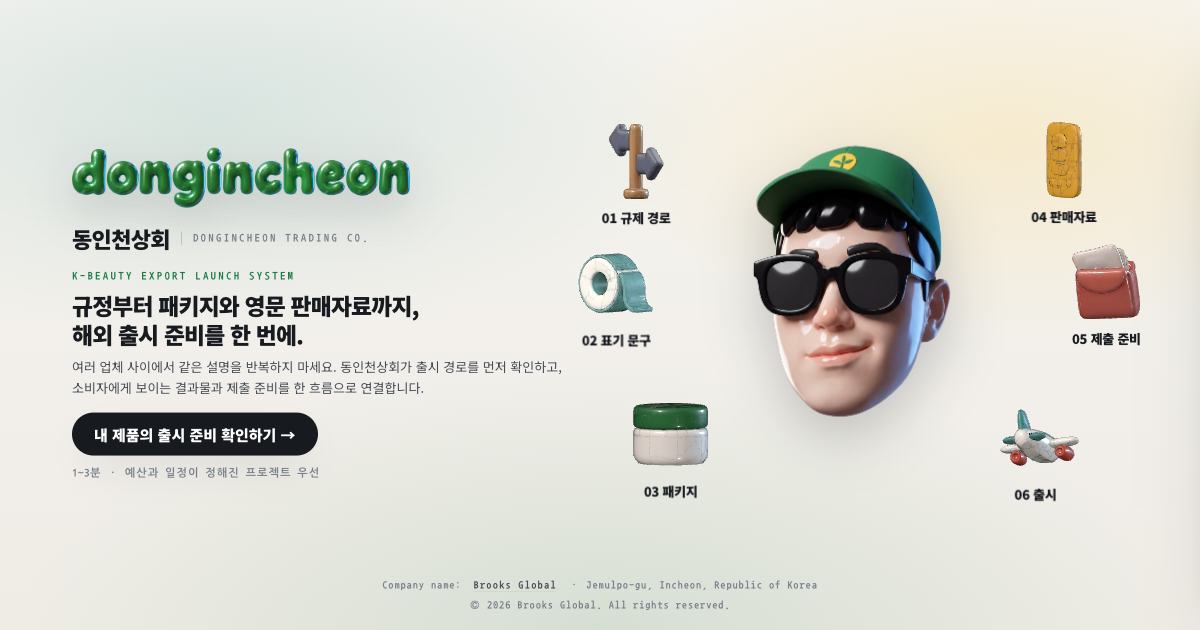
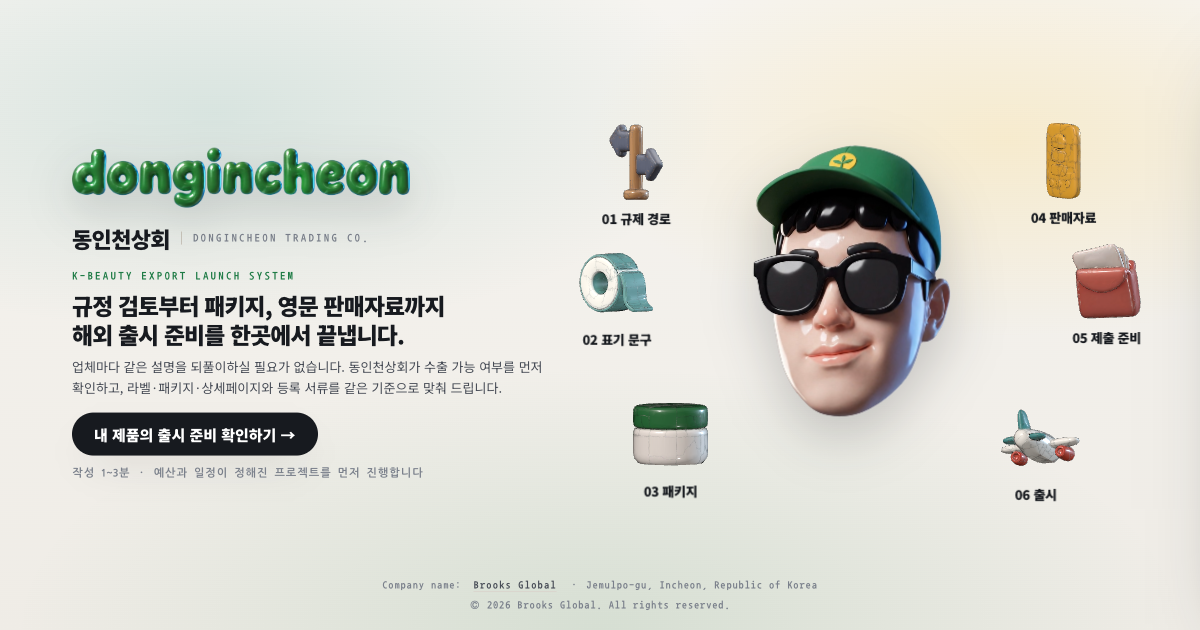
문안 교정: 번역투를 국내 업무 문체로(볼트 지침 korean-business-writing-style), 사업 내용과 어긋난 문장 정리
- 첫 화면 제목·설명, 페이지 제목·검색 설명·공유 문구를 서술어로 끝나는 문장으로
- 「미국에 내시면」「한 흐름으로 연결」「~하는 경험」「제품이 말할 수 있는」「판매언어」「작동하는 증거」「단절」 등 영어식 표현 교체
- Sprint 5단계 영문 제목을 한글로(출시 전 점검·규제 경로 확인·라벨·패키지 문안·판매자료·인수인계)
- 약어 풀어쓰기: INCI·CNF·NHP·NPN·DIN·PLA, 클레임 → 광고 문구
- 사실 정정: 「대행이 아니라 자문」 삭제(등록 대행을 함), 「EU CPNP 별도」 → 유럽 기준 문구 포함, 「MoCRA 시설 등록」 → 제품 등록
- 선택지·버튼의 해요체를 합니다체로, 중복된 캐나다 주의 문구 한 번으로
- og.png 를 바뀐 제목으로 다시 촬영

diff --git a/index.html b/index.html
@@ -3,12 +3,12 @@
 <head>
 <meta charset="utf-8">
 <meta name="viewport" content="width=device-width, initial-scale=1">
-<title>동인천상회 | 화장품 해외 출시 준비를 한 번에</title>
-<meta name="description" content="규제 검토부터 라벨·패키지와 영문 판매자료까지. Brooks Global의 동인천상회가 한국 화장품 브랜드의 해외 출시 준비를 하나의 실행 흐름으로 완성합니다.">
+<title>동인천상회 | 화장품 해외 출시 준비 대행</title>
+<meta name="description" content="동인천상회는 한국 화장품 브랜드의 해외 출시에 필요한 규제 검토, 라벨·패키지 디자인, 영문 상세페이지, 미국·캐나다 등록을 한곳에서 맡습니다. Brooks Global 의 서비스 브랜드입니다.">
 <link rel="canonical" href="https://www.brooksglobal.co.kr/">
 <meta property="og:site_name" content="동인천상회">
-<meta property="og:title" content="규정부터 판매자료까지, 해외 출시 준비를 한 번에">
-<meta property="og:description" content="Export-Ready Launch Sprint — 흩어진 규제, 라벨, 패키지와 영문 판매자료를 약 4주 동안 하나의 출시 흐름으로.">
+<meta property="og:title" content="화장품 해외 출시 준비, 동인천상회가 한곳에서 끝냅니다">
+<meta property="og:description" content="Export-Ready Launch Sprint — 약 4주 동안 규제 검토, 라벨·패키지 디자인, 영문 판매자료, 미국·캐나다 등록을 한 번에 진행합니다.">
 <meta property="og:type" content="website">
 <meta property="og:locale" content="ko_KR">
 <meta property="og:url" content="https://www.brooksglobal.co.kr/">
@@ -333,10 +333,10 @@ button{font:inherit;color:inherit;border:none;background:none;cursor:pointer}
     <span class="sub"><b>동인천상회</b><s></s><em>DONGINCHEON TRADING CO.</em></span>
     <div class="hero-copy">
       <small class="kicker">K-BEAUTY EXPORT LAUNCH SYSTEM</small>
-      <h1>규정부터 패키지와 영문 판매자료까지, 해외 출시 준비를 한 번에.</h1>
-      <p>여러 업체 사이에서 같은 설명을 반복하지 마세요. 동인천상회가 출시 경로를 먼저 확인하고, 소비자에게 보이는 결과물과 제출 준비를 한 흐름으로 연결합니다.</p>
+      <h1>규정 검토부터 패키지, 영문 판매자료까지 해외 출시 준비를 한곳에서 끝냅니다.</h1>
+      <p>업체마다 같은 설명을 되풀이하실 필요가 없습니다. 동인천상회가 수출 가능 여부를 먼저 확인하고, 라벨·패키지·상세페이지와 등록 서류를 같은 기준으로 맞춰 드립니다.</p>
       <button class="hero-cta" id="heroCta" data-open="fit">내 제품의 출시 준비 확인하기 →</button>
-      <small class="micro">1~3분 · 예산과 일정이 정해진 프로젝트 우선</small>
+      <small class="micro">작성 1~3분 · 예산과 일정이 정해진 프로젝트를 먼저 진행합니다</small>
     </div>
   </div>
   <div class="avatar" id="avatar" role="button" tabindex="0" aria-label="동인천김씨">
@@ -380,32 +380,32 @@ button{font:inherit;color:inherit;border:none;background:none;cursor:pointer}
 var SERVICES=[
  {id:'ra',art:'ra',color:'#4A5568',kicker:'SPRINT 01 · REGULATORY',tag:'01 규제 경로',short:'01 규제',
   title:'갈 수 있는 길부터 확인합니다',
-  lede:'디자인을 시작하기 전에 이 제품이 그 나라에 어떤 경로로 들어갈 수 있는지부터 봅니다. 캐나다는 OUAH 포털과 현지 전문가를 통해 경로를 확인합니다.',
+  lede:'디자인을 시작하기 전에 제품이 수출할 나라에 어떤 경로로 들어갈 수 있는지부터 확인합니다. 캐나다는 OUAH 포털로 먼저 확인하고, 현지 전문가가 최종 검토합니다.',
   role:['갈 수 있는 경로와 필요한 자료, 외부 절차를 정리합니다',
         '금지·제한 성분과 쓰면 안 되는 문구를 먼저 걸러 냅니다',
         '여기서 정한 경로가 라벨·패키지·판매자료의 기준이 됩니다'],
-  solo:'규정 검토만 따로 맡기실 수도 있습니다. 대행이 아니라 자문과 검토로 맡습니다.',
-  items:['MoCRA 시설 등록과 제품 리스팅에 무엇이 필요한지 정리해 드립니다',
+  solo:'규정 검토나 등록만 따로 맡기실 수도 있습니다.',
+  items:['미국 화장품 규정(MoCRA)에 따라 제품 등록에 무엇이 필요한지 정리해 드립니다',
          '성분이 쓸 수 있는 것인지, 한도를 넘지 않는지 봅니다',
          '캐나다는 화장품 신고(Cosmetic Notification) 요건을 확인해 드립니다',
          '라벨과 상세페이지가 기준에 맞는지 미리 보고 고칠 방향을 드립니다',
-         '통관에서 막혔다면 사유를 뜯어보고 다시 낼 방향을 잡아 드립니다'],
+         '통관에서 막혔다면 사유를 분석해 다시 신청할 방향을 잡아 드립니다'],
   canada:true,
-  cred:'아마존코리아와 월마트 아시아퍼시픽 마켓플레이스 파트에서 셀러 대상 웨비나를 진행했습니다.',   /* OUAH 직함 문장은 D4(관계 문구 승인) 뒤 */
-  meta:'대리인을 세워야 하는 절차는 범위와 책임을 먼저 나눈 다음 진행 여부를 정합니다. 대행이 아니라 자문과 검토로 맡습니다.'},
+  cred:'아마존코리아와 월마트 아시아퍼시픽 마켓플레이스의 셀러 대상 웨비나를 진행했습니다.',   /* OUAH 직함 문장은 D4(관계 문구 승인) 뒤 */
+  meta:'미국 FDA 제품 등록과 Health Canada 신고·허가는 맡아서 진행합니다. 미국 대리인이 필요한 시설 등록은 맡지 않으며, 필요하시면 따로 견적을 드립니다.'},
  {id:'label',art:'label',color:'#2A8C86',kicker:'SPRINT 02 · LABEL',tag:'02 표기 문구',short:'02 표기',
   title:'번역이 아니라 시장별로 다시 씁니다',
   lede:'클레임과 필수 문구를 나라 기준에 맞게 정리합니다. 한 나라 문구를 옮겨 적지 않고, 그 나라 규정에 맞춰 새로 씁니다.',
   role:['01 단계에서 정한 경로에 맞춰 필수 표기 항목을 정리합니다',
         '영문·불문 등 시장별 문안을 쓰고, 기능성이나 의약품 주장으로 읽히는 표현을 걸러 냅니다',
-        '전성분을 INCI 명으로 정리합니다'],
+        '전성분을 국제 성분명(INCI)으로 정리합니다'],
   solo:'라벨 표기 문구만 따로 맡기실 수도 있습니다.',
   items:['국문과 영문 문구를 쓰고, 한 면에 같이 넣을지 나눌지 정해 드립니다',
-         '전성분을 INCI 명으로 정리합니다',
+         '전성분을 국제 성분명(INCI)으로 정리합니다',
          '건강기능식품은 Supplement Facts, 일반식품은 Nutrition Facts, OTC는 Drug Facts로 구성합니다',
          '기능성으로 읽히는 표현, 의약품 주장이 되는 표현을 걸러 냅니다',
-         '수출만 하실지 국내에도 같이 푸실지에 따라 표기를 나눠 드립니다'],
-  meta:'국내에 유통하는 화장품은 화장품법 제10조에 따라 1차·2차 포장에 한글 표기가 있어야 합니다. 국내에도 같이 푸실 제품이면 처음부터 병기로 잡는 편이 낫습니다. EU CPNP 문구는 기준이 달라 별도 건으로 봅니다.'},
+         '수출만 하실지 국내에서도 판매하실지에 따라 표기를 나눠 드립니다'],
+  meta:'국내에 유통하는 화장품은 화장품법 제10조에 따라 1차·2차 포장에 한글 표기가 있어야 합니다. 국내에서도 판매하실 제품이라면 처음부터 한글과 영문을 함께 표기하는 편이 낫습니다. 유럽 기준 라벨 문구도 함께 잡아 드리며, 유럽 화장품 등록(CPNP) 절차는 따로 상담합니다.'},
  {id:'pkg',art:'pkg',color:'#1E7B45',kicker:'SPRINT 03 · PACKAGE',tag:'03 패키지',short:'03 패키지',
   title:'만들기 전에 먼저 확인합니다',
   lede:'규정과 필수 표기를 먼저 잡아 두고 디자인을 시작합니다. 다 그려 놓고 문구 때문에 다시 뜯어고치는 일을 줄입니다.',
@@ -422,11 +422,11 @@ var SERVICES=[
   cred:'K-POP 아이돌 굿즈 브랜드 블링원의 디자인 파트너입니다.',
   meta:'제품 촬영과 모델·스튜디오 비용, 인쇄와 감리, 부자재, 별도 폰트 라이선스는 용역비에 들어가지 않습니다. 인쇄를 넘긴 뒤에 되돌아오는 일을 줄이는 것이 이 작업의 목적입니다.'},
  {id:'detail',art:'ax',color:'#E0A400',kicker:'SPRINT 04 · SALES PAGE',tag:'04 판매자료',short:'04 판매',
-  title:'패키지와 판매언어를 맞춥니다',
-  lede:'제품이 말할 수 있는 범위 안에서 구매 정보를 설계합니다. 패키지와 같은 논리, 같은 표현으로 판매 화면을 만듭니다.',
+  title:'패키지와 판매 문구를 맞춥니다',
+  lede:'광고할 수 있는 표현 범위 안에서 상세페이지를 기획합니다. 패키지와 같은 표현으로 판매 화면을 만듭니다.',
   role:['패키지·라벨에서 정한 표현 범위 안에서 판매 문구를 씁니다',
         '영문 상세페이지 핵심 구조 또는 완성본을 만듭니다',
-        '바이어와 고객이 확인할 브랜드 웹사이트가 필요하면 같은 흐름으로 붙입니다'],
+        '바이어와 고객이 볼 브랜드 웹사이트가 필요하면 같은 기준으로 함께 만듭니다'],
   solo:'상세페이지나 브랜드 웹사이트만 따로 맡기실 수도 있습니다.',
   items:['영문 상세페이지를 가로 860px로 만들고 2배수 파일을 같이 드립니다',
          '자사몰과 마켓플레이스에 함께 쓸 대표 페이지 한 벌을 만듭니다',
@@ -440,8 +440,8 @@ var SERVICES=[
                 '검색에 잡히도록 제목과 설명, 공유했을 때 뜨는 카드 이미지, sitemap을 넣고 네이버 서치어드바이저와 구글 서치콘솔에 등록해 드립니다',
                 '문의 폼을 붙이고 받으실 메일 주소로 연결합니다',
                 '소스 전체와 배포된 사이트, 운영 안내서를 함께 드립니다',
-                '문을 연 뒤 30일 동안 하자는 무상으로 고칩니다'],
-         meta:'쇼핑몰, 회원가입, 예약, 게시판, 관리자 화면은 기본 범위에 없습니다. 필요하시면 따로 견적을 드립니다. 언어를 늘리는 것은 한 언어 단위로 잡습니다.'}],
+                '사이트를 공개한 뒤 30일 동안 하자는 무상으로 고칩니다'],
+         meta:'쇼핑몰, 회원가입, 예약, 게시판, 관리자 화면은 기본 범위에 없습니다. 필요하시면 따로 견적을 드립니다. 언어를 추가할 때는 한 언어씩 견적을 드립니다.'}],
   cred:'지금 보고 계신 이 사이트도 같은 방식으로 직접 만들었습니다.',
   meta:'860px는 네이버 스마트스토어와 카페24가 쓰는 국내 표준 폭입니다. 채널마다 규격을 따로 만들지는 않습니다.'},
  {id:'sub',art:'sub',color:'#D3372B',kicker:'SPRINT 05 · SUBMISSION',tag:'05 제출 준비',short:'05 제출',
@@ -452,11 +452,11 @@ var SERVICES=[
         '지금 어디까지 왔고 다음에 누가 무엇을 정해야 하는지 한눈에 보이게 합니다'],
   solo:'사무 반복 업무 자동화만 따로 맡기실 수도 있습니다.',
   items:['진단 2주 — 지금 쓰는 파일을 그대로 받습니다. 새로 써 달라고 하지 않습니다. 반복 업무를 규칙 · AI · 연동 · 사람 넷으로 나누고, 그대로 두는 게 나은 일도 같이 적어 드립니다',
-         '메신저 봇 — 파일을 올리면 변환본이 답글로 돌아옵니다. 새 프로그램을 깔지 않고 이미 쓰는 슬랙에 붙입니다. 송장 변환, 주문 취합, 등록 양식 생성, 일일 보고',
+         '메신저 봇 — 파일을 올리면 변환본이 답글로 돌아옵니다. 새 프로그램을 깔지 않고 이미 쓰는 슬랙에 붙입니다. 송장 변환, 주문 취합, 등록 양식 생성, 일일 보고에 씁니다',
          '회의록 자동화 — 녹음하면 전사 · 요약 · 할 일이 정리되어 메신저로 옵니다',
          '정기 수집 · 알림 — 매일 정해진 시간에 공고와 데이터를 모아 판정하고 보냅니다. PC를 꺼도 돕니다',
          '규제 검토 자동화 — 화장품 전성분과 문안을 규정표에 대조해 검토 초안을 만듭니다. 미국 · 캐나다 규정 자문과 붙여서 씁니다',
-         'SNS 운영 자동화 — 인스타그램 성과 지표 연동, 카드 이미지 자동 생성'],
+         'SNS 운영 자동화 — 인스타그램 성과 지표를 연동하고 카드 이미지를 자동으로 만듭니다'],
   rules:['제거 → 표준화 → 연동 → 자동화 → AI. AI를 먼저 붙이지 않습니다',
          '규칙으로 되는 일은 AI로 하지 않습니다. 99번 맞고 1번 틀리면 그 1번을 사람이 못 잡습니다',
          '병행 운영 뒤에 전환합니다. 전과 후를 실측해 숫자로 보여 드립니다',
@@ -739,36 +739,36 @@ function go(target,label,ghost){ return '<button type="button" class="pgo'+(ghos
 /* 캐나다 카드 — 브리프 9.3. sprint · proof · 규제 모듈에서 같이 쓴다 */
 function canadaCard(){
   return '<div class="pcard"><small>WORKING PROOF · CANADA</small><h5>전성분표 한 장에서 등록 준비까지</h5>'+
-    '<p>캐나다 출시만 먼저 확인하고 싶으시면, 전성분표와 제품 질문으로 Health Canada 예상 경로와 견적을 먼저 볼 수 있습니다.</p>'+
+    '<p>캐나다 수출 가능 여부만 먼저 알고 싶으시면, 전성분표를 올리고 몇 가지 질문에 답해 Health Canada 등록 경로와 견적부터 받아 보실 수 있습니다.</p>'+
     go('canada','캐나다 출시라면 — 경로부터 보기 →',true)+'</div>';
 }
 var PAGES={
   /* ---- 1-4 리뉴얼 패널 (설계 3.3~3.9). 가격 숫자는 넣지 않는다 — D1·D2·D3·D7·D9 결정 뒤 채움 ---- */
   sprint:{kicker:'ONE FLAGSHIP OFFER',title:'Export-Ready Launch Sprint',
-    lede:'해외 출시를 앞둔 화장품 브랜드를 위한 약 4주의 집중 프로젝트입니다. 규정 검토와 디자인을 따로 발주하면서 생기는 누락, 반복 설명과 재작업을 줄입니다.',
+    lede:'해외 출시를 앞둔 화장품 브랜드와 약 4주 동안 집중해서 진행합니다. 규정 검토와 디자인을 따로 발주하면 생기는 누락, 반복 설명, 재작업을 줄입니다.',
     html:function(){ return ''+
       '<h4 class="psec">1) 이런 문제를 풉니다</h4>'+
-      '<p class="pquote">여러 업체 사이에서 같은 설명을 반복하지 않고, 규정 때문에 완성된 디자인을 다시 뜯어고치지 않으며, 지금 무엇이 부족하고 다음에 누가 결정해야 하는지 한 화면에서 아는 경험.</p>'+
-      '<h4 class="psec">2) 4주 뒤에 손에 쥐는 것</h4>'+
-      '<p>기술을 많이 쓰는 것이 목적이 아닙니다. 출시 전에 꼭 맞아야 하는 것들을 같은 순서와 같은 정보로 연결하는 것이 목적입니다.</p>'+
-      ul(['출시 준비 진단서','자료 누락 및 위험요소 목록','시장별 표기 문구 또는 검토 의견','패키지·라벨 수정안','영문 상세페이지 핵심 구조 또는 완성본','제출·제작·출시 체크리스트','필요하면 캐나다 등록 포털 연계']) +
+      '<p class="pquote">업체마다 같은 설명을 되풀이하지 않아도 되고, 규정 때문에 완성된 디자인을 다시 고치지 않아도 됩니다. 지금 무엇이 부족하고 다음에 누가 결정해야 하는지도 한눈에 보입니다.</p>'+
+      '<h4 class="psec">2) 4주 뒤에 받으시는 것</h4>'+
+      '<p>기술을 많이 쓰는 것이 목적이 아닙니다. 출시 전에 맞춰야 할 규정, 라벨, 패키지, 판매자료를 같은 기준으로 맞추는 것이 목적입니다.</p>'+
+      ul(['출시 준비 진단서','자료 누락 및 위험요소 목록','시장별 표기 문구 또는 검토 의견','패키지·라벨 수정안','영문 상세페이지 핵심 구조 또는 완성본','제출·제작·출시 체크리스트','캐나다 등록 포털 연계(필요한 경우)']) +
       '<h4 class="psec">3) 들어가는 것과 빠지는 것</h4>'+
-      steps([['Launch Preflight','제품, 국가, 성분, 클레임, 지금 아트워크와 일정을 점검합니다.'],
-             ['Regulatory Route','갈 수 있는 경로, 금지·제한 성분과 문구, 필요한 자료와 외부 절차를 정리합니다.'],
-             ['Label & Package Readiness','필수 표기와 영문·불문 등 시장별 문안을 잡고, 고칠 곳을 표시하거나 적용 파일을 만듭니다.'],
-             ['Sales Surface','패키지와 같은 논리로 이어지는 영문 상세페이지 또는 핵심 판매자료를 만듭니다.'],
-             ['Launch Handoff','최종 파일, 제출·제작 체크리스트, 다음 담당자와 일정을 넘깁니다.']])+
-      '<p class="pmeta">기본 범위에 들어가지 않는 것: 정부 수수료와 시험성적서 발급, 실험실 시험 · 인쇄·용기·단상자 생산비 · 제품 촬영, 영상, 모델, 번역 감수 등 외부 실비 · 법률의견서나 승인 보장 · 정한 횟수를 넘는 수정과 새 SKU</p>'+
+      steps([['출시 전 점검','제품, 국가, 성분, 광고 문구, 지금 아트워크와 일정을 점검합니다.'],
+             ['규제 경로 확인','등록 경로, 금지·제한 성분과 문구, 필요한 자료와 외부 절차를 정리합니다.'],
+             ['라벨·패키지 문안','필수 표기와 영문·불문 등 나라별 문안을 잡고, 고칠 곳을 표시하거나 적용 파일을 만듭니다.'],
+             ['판매자료','패키지와 같은 표현을 쓰는 영문 상세페이지나 판매자료를 만듭니다.'],
+             ['인수인계','최종 파일, 제출·제작 체크리스트, 다음 담당자와 일정을 넘겨 드립니다.']])+
+      '<p class="pmeta">정부 수수료, 시험성적서 발급과 실험실 시험, 인쇄·용기·단상자 생산비, 제품 촬영·영상·모델·번역 감수 같은 외부 실비, 법률의견서와 승인 보장, 정한 횟수를 넘는 수정과 새 SKU 는 기본 범위에 들어가지 않습니다.</p>'+
       '<h4 class="psec">4) 4주는 이렇게 갑니다</h4>'+
       '<dl class="facts">'+
       '<div class="fact"><dt>착수 전</dt><dd>유료 진단, 범위·가격 확정, 착수금, 자료 수령 — 고객이 국가·SKU·예산·승인권자를 정합니다</dd></div>'+
-      '<div class="fact"><dt>1주차</dt><dd>규제 경로, 자료 누락, 클레임 검토 — 진행 경로를 승인합니다</dd></div>'+
+      '<div class="fact"><dt>1주차</dt><dd>규제 경로, 자료 누락, 광고 문구 검토 — 진행 경로를 승인합니다</dd></div>'+
       '<div class="fact"><dt>2주차</dt><dd>라벨·패키지 정보구조와 문안 — 문안과 구조를 승인합니다</dd></div>'+
       '<div class="fact"><dt>3주차</dt><dd>디자인과 판매자료 제작 — 1차 시안을 승인합니다</dd></div>'+
-      '<div class="fact"><dt>4주차</dt><dd>수정, 검수, 제출·제작 체크리스트 — 최종 승인과 잔금</dd></div></dl>'+
+      '<div class="fact"><dt>4주차</dt><dd>수정, 검수, 제출·제작 체크리스트 — 최종 승인 뒤 잔금을 정산합니다</dd></div></dl>'+
       '<h4 class="psec">5) 이런 팀에 맞습니다</h4>'+
       ul(['첫 캐나다·미국 출시를 준비하는 한국 화장품 브랜드와 제조사','해외 진출 담당자는 있지만 사내 규제·글로벌 디자인 인력이 넉넉하지 않은 팀','패키지·전성분표·상세페이지는 있는데 나라마다 무엇을 바꿔야 하는지 모르는 팀','규제 대행사, 디자이너, 개발사 사이에서 자료와 책임이 흩어진 팀','1~6개월 안에 수출 일정이 있고, 예산 범위와 승인권자가 있는 팀'])+
-      '<p class="pmeta">이런 경우는 뒤로 미룹니다: 나라·제품·일정이 아직 정해지지 않은 아이디어 단계 · 무료 시안이나 무료 규제 판정을 원하시는 경우 · 승인권자 없이 정보만 모으시는 경우 · 예산과 구매 기준을 밝히기 어려운 경우 · 법적 승인이나 판매 성공 보장이 필요한 경우</p>'+
+      '<p class="pmeta">나라·제품·일정이 아직 정해지지 않았거나, 무료 시안이나 무료 규제 판정을 원하시거나, 승인권자 없이 정보만 모으시는 경우는 뒤로 미룹니다. 예산과 구매 기준을 밝히기 어렵거나 법적 승인·판매 성공 보장이 필요한 경우도 같습니다.</p>'+
       /* 2026-10-05 가격 확정(D1·D2, 부가세 별도). 바꿀 때는 볼트 log 의 결정 기록도 같이 */
       '<h4 class="psec">6) 가격</h4>'+
       '<dl class="facts">'+
@@ -780,7 +780,7 @@ var PAGES={
       '<div class="fact"><dt>NHP</dt><dd>Health Canada 천연건강제품 등록 SKU당 250만 원</dd></div></dl>'+
       ul(['등록에는 라벨 문구 검토 보고서가 들어갑니다',
           '디자인과 문구가 같고 용량만 다른 SKU 는 50% 할인합니다',
-          '예를 들어 일반 화장품 1 SKU 를 미국에 내시면 디자인 300만 원과 FDA 등록 20만 원, 모두 320만 원입니다',
+          '예를 들어 일반 화장품 1 SKU 를 미국에 수출하신다면 디자인 300만 원과 FDA 등록 20만 원을 더해 320만 원입니다',
           '월 유지관리는 Sprint 를 마친 뒤에만 제안합니다'])+
       '<p class="pmeta">모든 가격은 부가세 별도입니다. 정부 수수료, 시험성적서, 인쇄·생산비는 들어가지 않습니다. FDA 제품 등록은 제조 시설이 FDA 에 등록되어 있는 경우를 기준으로 하며, 시설 등록과 미국 대리인은 맡지 않습니다. 필요하시면 따로 견적을 드립니다.</p>'+
       canadaCard()+
@@ -795,7 +795,7 @@ var PAGES={
         ['4주 Sprint','주마다 승인할 것이 하나씩 있습니다. 경로, 문안과 구조, 1차 시안, 최종 승인 순서입니다.'],
         ['월 유지관리','Sprint 를 마친 뒤에만 제안합니다. 규제·라벨 자문, SKU·아트워크 변경 검토, 웹·상세페이지 업데이트를 맡습니다.']])+   /* 범위·시작 조건 D9 */
       '<p class="pmeta">맞춤 제안서는 예산, 최종 결정권자, 희망일, 구매하지 않을 조건이 확인된 프로젝트에만 씁니다. 아직 정해지지 않았다면 가능한 범위와 결정 예정일을 받습니다. 맞지 않으면 다른 길을 안내해 드리고, 제안서 전에 필요한 맞춤 분석은 유료 진단으로 합니다.</p>'+
-      go('about','동인천상회는 누구인가',true)+
+      go('about','동인천상회 소개 보기',true)+
       go('fit','우리 제품도 맞는지 확인하기 →'); }},
   fitform:{kicker:'CHECK LAUNCH FIT',title:'프로젝트 적합성 확인',
     lede:'맞춤 제안서는 예산, 최종 결정권자, 희망일과 구매하지 않을 조건이 확인된 프로젝트에만 작성합니다. 아직 정해지지 않았다면 가능한 범위와 결정 예정일을 적어 주세요.',
@@ -819,60 +819,59 @@ var PAGES={
         fld('q_how','승인 방식','<input id="q_how" type="text" placeholder="예: 대표 결재 후 진행">','',true)+
         fld('q_who_when','결정권자가 정해질 예정일','<input id="q_who_when" type="text" placeholder="예: 이번 분기 안">','',true)+
         '<div class="fld"><label for="q_date">'+req('6) 희망 출시·납품 시기')+'</label><input id="q_date" type="month">'+
-          '<div class="checks"><label><input type="checkbox" id="q_date_un">아직 정하지 못했어요</label></div></div>'+
+          '<div class="checks"><label><input type="checkbox" id="q_date_un">아직 정하지 못했습니다</label></div></div>'+
         fld('q_date_when','언제쯤 정해질지','<input id="q_date_when" type="text" placeholder="예: 시험성적서 나온 뒤">','',true)+
         fld('q_nobuy',req('7) 어떤 조건이면 진행하지 않으시나요'),'<textarea id="q_nobuy" rows="3" placeholder="예: 예산을 넘거나, 출시일을 못 맞추면 진행하지 않습니다"></textarea>')+
         fld('q_block',req('8) 지금 가장 막힌 한 가지'),'<textarea id="q_block" rows="3" placeholder="예: 캐나다 라벨에 무엇을 넣어야 하는지 모릅니다"></textarea>')+
         '<input type="checkbox" name="botcheck" id="f_bot" class="botcheck" tabindex="-1" autocomplete="off">'+
         '<p class="cerr" id="cerr" role="alert"></p>'+
         '<button type="submit" class="csend" id="csend">적합성 확인 요청 보내기</button>'+
-        '<p class="cnote">보내주신 내용은 회신 목적으로만 씁니다. 폼이 안 되면 메일로 보내주셔도 됩니다 — <button type="button" class="lnk" id="mcopy">'+MAIL+' 복사</button></p>'+
+        '<p class="cnote">보내주신 내용은 회신에만 씁니다. 양식이 보내지지 않으면 메일로 보내주셔도 됩니다 — <button type="button" class="lnk" id="mcopy">'+MAIL+' 복사</button></p>'+
         '</form><div class="cdone" id="cdone" hidden></div>'; }},
   fit:{kicker:'CHECK LAUNCH FIT',title:'무엇이 가장 필요하신가요?',
     lede:'고르시면 맞는 다음 단계로 안내합니다.',
     html:function(){ return '<div class="plinks choice">'+
-      '<button type="button" data-go="fitform" style="--dot:#1E7B45"><span><i></i>규제·라벨·패키지·판매자료를 한 번에 준비하고 싶어요</span><em>SPRINT</em></button>'+
-      '<button type="button" data-go="canada" style="--dot:#4A5568"><span><i></i>캐나다 Health Canada 등록 가능 여부부터 확인하고 싶어요</span><em>CANADA</em></button>'+
-      '<button type="button" data-go="undecided" style="--dot:#C99A5B"><span><i></i>아직 국가와 제품이 정해지지 않았어요</span><em>START</em></button>'+
+      '<button type="button" data-go="fitform" style="--dot:#1E7B45"><span><i></i>규제·라벨·패키지·판매자료를 한 번에 준비하려고 합니다</span><em>SPRINT</em></button>'+
+      '<button type="button" data-go="canada" style="--dot:#4A5568"><span><i></i>캐나다 보건부(Health Canada) 등록 가능 여부부터 확인하려고 합니다</span><em>CANADA</em></button>'+
+      '<button type="button" data-go="undecided" style="--dot:#C99A5B"><span><i></i>아직 수출할 나라와 제품을 정하지 못했습니다</span><em>START</em></button>'+
       '</div>'; }},
   undecided:{kicker:'NOT DECIDED YET',title:'아직 정해지지 않았다면',
     lede:'출시할 나라와 제품이 정해지지 않았다면 Sprint 보다 먼저 방향을 정하는 것이 맞습니다.',
     html:function(){ return ''+   /* 무료 자료는 아직 없어 숨김 — D7 */
-      '<h4 class="psec">유료 방향설정 세션</h4>'+
+      '<h4 class="psec">유료 방향 상담</h4>'+
       '<p>어느 나라부터, 어떤 제품부터 내보낼지 순서를 같이 정합니다. 정해진 뒤에는 그 결과로 적합성 확인부터 다시 시작하시면 됩니다.</p>'+
       '<p class="pmeta">가격은 문의 주시면 안내합니다.</p>'+   /* D7 */
-      go('fitform','방향설정 세션 요청하기 →'); }},
+      go('fitform','방향 상담 요청하기 →'); }},
   canada:{kicker:'WORKING PROOF · CANADA',title:'전성분표 한 장에서 등록 준비까지',
     lede:'OUAH AI 포털은 전성분표와 제품 질문을 바탕으로 Health Canada 예상 경로와 견적을 먼저 보여 줍니다. 영·불 라벨 문안과 제출자료 초안은 시스템이 준비하고, 최종 검토와 제출은 캐나다 현지 전문가가 맡습니다.',
     html:function(){ return ''+   /* 포털 화면 캡처는 D5, 관계 문구는 D4 뒤 */
-      steps([['전성분표 업로드','INCI 전성분표를 올리면 함량 합계를 먼저 검증합니다.'],
-             ['질문 응답','사용 방식과 클레임에 관한 질문에 답합니다.'],
-             ['경로 판정','CNF 또는 NHP 등 예상 경로를 보여 줍니다.'],
+      steps([['전성분표 업로드','국제 성분명(INCI)으로 된 전성분표를 올리면 함량 합계부터 검증합니다.'],
+             ['질문 응답','사용 방법과 광고 문구에 관한 질문에 답합니다.'],
+             ['경로 판정','화장품 신고(CNF)인지 천연건강제품 허가(NHP)인지 예상 경로를 보여 줍니다.'],
              ['견적','대행료, 정부 수수료, 세금을 나눠서 보여 줍니다.'],
-             ['영·불 라벨 초안과 제출 자료','영·불 라벨 문안 보고서와 CNF 제출 파일, PLA 입력 자료 또는 NHP PLA 저장본을 준비합니다.'],
+             ['영·불 라벨 초안과 제출 자료','영어·불어 라벨 문안 보고서와 신고·허가 신청에 들어갈 제출 자료를 준비합니다.'],
              ['현지 전문가 검토·제출','캐나다 현지 전문가가 최종 검토하고 제출합니다.']])+
-      '<p class="pmeta">자동 결과는 제출 전 사전 검토입니다 · 최종 경로는 전문가 검토 뒤 확정됩니다 · CNF 는 허가가 아니라 신고입니다 · NPN·DIN 승인 여부와 처리 기간은 보장하지 않습니다 · 결과는 고객이 주신 자료가 정확한지에 따라 달라집니다</p>'+
+      '<p class="pmeta">자동 결과는 제출 전 사전 검토이며, 최종 경로는 전문가가 검토한 뒤 확정합니다. 화장품 신고(CNF)는 허가가 아니라 신고입니다. 천연건강제품 허가번호(NPN)와 의약품 식별번호(DIN)의 승인 여부와 처리 기간은 Health Canada 심사에 따르며 보장하지 않습니다. 결과는 보내 주신 자료가 정확한지에 따라 달라집니다.</p>'+
       '<a class="pgo" id="ouahGo" href="'+OUAH_PORTAL+'" target="_blank" rel="noopener">캐나다 등록 가능 여부 1분 확인 →</a>'+
-      '<p class="pmeta">1차 자동 검토이며 최종 경로는 담당자 확인 후 확정됩니다. CNF는 신고이며, NPN·DIN은 Health Canada 심사 결과에 따릅니다.</p>'+
-      go('fit','캐나다 말고 다른 준비도 필요해요',true); }},
+      go('fit','캐나다 등록 말고 다른 준비도 필요합니다',true); }},
   proof:{kicker:'PROOF',title:'권리를 확인한 사례만 올립니다',
-    lede:'사례는 고객 승인을 받은 것만 올립니다. 지금은 OUAH 포털 하나가 작동하는 증거입니다.',
+    lede:'사례는 고객 승인을 받은 것만 올립니다. 지금 공개하는 사례는 OUAH 캐나다 등록 포털 하나입니다.',
     html:function(){ return ''+   /* 사례 2건은 D6. 카드 틀: 문제 / 무엇을 연결했는지 / 무엇이 줄었는지 / 산출물 / 승인된 수치·증언 */
       canadaCard()+
       '<p class="pmeta">K-POP 아이돌 굿즈 브랜드 블링원의 디자인 파트너입니다.</p>'+
       go('fit','우리 제품도 맞는지 확인하기 →'); }},
-  about:{kicker:'ABOUT',title:'디자인과 규정, 그리고 그 사이의 반복업무까지 봅니다.',
-    lede:'동인천상회는 브랜드가 바다 건너 나갈 때 생기는 단절을 줄이는 곳입니다. 규정을 읽은 사람이 라벨과 패키지를 이해하고, 고객에게 보이는 화면과 제출 준비가 같은 정보에서 출발하게 만듭니다. 반복 입력과 자료 확인은 시스템으로 줄이고, 판단과 책임은 사람에게 남깁니다.',
+  about:{kicker:'ABOUT',title:'디자인과 규정, 반복되는 서류 업무까지 한곳에서 맡습니다',
+    lede:'동인천상회는 한국 화장품 브랜드가 해외에 나갈 때 규정 검토, 디자인, 등록을 따로 맡기면서 생기는 빈틈을 줄입니다. 규정을 아는 사람이 라벨과 패키지까지 직접 보기 때문에 판매 화면과 제출 서류가 같은 기준으로 만들어집니다. 반복 입력과 자료 확인은 시스템으로 줄이고, 판단과 책임은 사람이 집니다.',
     html:function(){ return '<div class="portrait"><img src="media/portrait.webp" alt="동인천김씨 김현우"></div>'+
       '<p class="pquote">인천 개항장 뒷골목 상회들이 그랬듯, 간판보다 물건이 실제로 나가는 쪽에 무게를 둡니다.</p>'+
       '<dl class="facts">'+
       '<div class="fact"><dt>WHO</dt><dd>동인천김씨 · 김현우</dd></div>'+
       '<div class="fact"><dt>BRAND</dt><dd>동인천상회 (DONGINCHEON TRADING CO.)</dd></div>'+
       '<div class="fact"><dt>ENTITY</dt><dd>동인천상회는 Brooks Global 의 서비스 브랜드입니다. 계약·세금계산서·해외 인보이스는 사업자 브룩스글로벌 명의로 발행합니다.</dd></div>'+   /* OUAH 협업 문장(브리프 3)은 D4 뒤 */
-      '<div class="fact"><dt>FIELD</dt><dd>미국 FDA · Health Canada 규정, 글로벌 라벨링, 패키지·상세페이지 디자인, 웹사이트 구축</dd></div>'+
+      '<div class="fact"><dt>FIELD</dt><dd>미국 FDA · Health Canada 규정, 해외 라벨 표기, 패키지·상세페이지 디자인, 웹사이트 구축</dd></div>'+
       '<div class="fact"><dt>TALKS</dt><dd>아마존코리아 셀러 웨비나, 월마트 아시아퍼시픽 마켓플레이스 파트너 세션</dd></div>'+
       '<div class="fact"><dt>HOW</dt><dd>외주 재하청 없이 직접 작업합니다. 표기 문구 검수는 항상 본인이 수행합니다.</dd></div>'+
-      '<div class="fact"><dt>BASE</dt><dd>인천 동인천 · 원격 협업 가능</dd></div></dl>'+
+      '<div class="fact"><dt>BASE</dt><dd>인천 동인천에 있고, 원격으로도 함께 일합니다</dd></div></dl>'+
       go('fit','우리 제품도 맞는지 확인하기 →'); }}
 };
 function openPage(k){
@@ -961,7 +960,7 @@ function validateFit(d){
   if(!d.who) return bad('q_who','최종 결정권자를 골라주세요.');
   if(d.who==='미정' && !d.whoWhen) return bad('q_who_when','결정권자가 정해질 예정일을 적어주세요.');
   if(d.who!=='미정' && !d.how) return bad('q_how','승인 방식을 적어주세요.');
-  if(!d.date) return bad('q_date','희망 출시·납품 시기를 골라주세요. 정하지 못했으면 「아직 정하지 못했어요」를 눌러주세요.');
+  if(!d.date) return bad('q_date','희망 출시·납품 시기를 골라주세요. 정하지 못했으면 「아직 정하지 못했습니다」를 눌러주세요.');
   if(d.date==='미정' && !d.dateWhen) return bad('q_date_when','언제쯤 정해질지 적어주세요.');
   if(d.nobuy.length<2) return bad('q_nobuy','어떤 조건이면 진행하지 않으실지 적어주세요.');
   if(d.block.length<2) return bad('q_block','지금 가장 막힌 한 가지를 적어주세요.');
@@ -1048,7 +1047,7 @@ function bindForm(){
         if(j&&j.success) showSent(d); else showFallback(d,'전송 서버가 요청을 받지 못했습니다.'); })
       .catch(function(){ if(done) return; done=true; clearTimeout(t);
         btn.disabled=false; btn.textContent=label;
-        showFallback(d,'지금 화면에서는 바깥으로 보내는 것이 막혀 있습니다.'); });
+        showFallback(d,'지금 화면에서는 전송이 차단되어 있습니다.'); });
   });
 }
 
